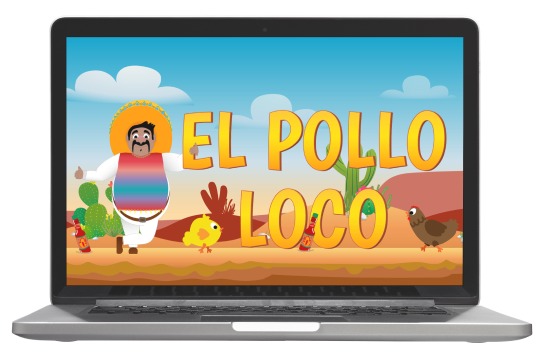
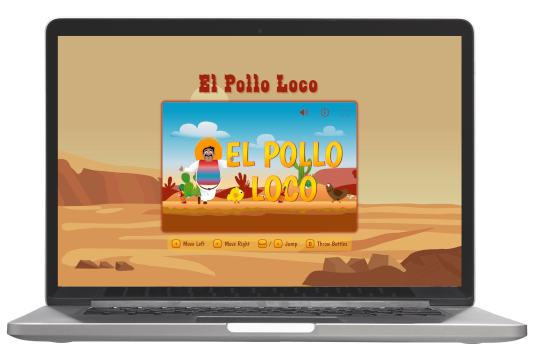
portfolio images

diff --git a/src/app/services/project-list.service.ts b/src/app/services/project-list.service.ts
@@ -12,7 +12,8 @@ export class ProjectListService {
       description: 'Task manager inspired by the Kanban System. Create and organize tasks using drag and drop functions, assign users and categories.',
       url: 'https://manu-kapolke.developerakademie.net/join',
       githubUrl: 'https://github.com/ManuKapolke/join',
-      img: 'assets/img/projects/laptop_join.png'
+      img: 'assets/img/projects/laptop_join.png',
+      imgPhone: 'assets/img/projects/smartphone_join.png'
     },
     {
       name: 'El Pollo Loco',
@@ -20,23 +21,26 @@ export class ProjectListService {
       description: 'Jump, run and throw game based on object-oriented approach. Help Pepe to find coins and salsa to fight against a psycho chicken.',
       url: 'https://manu-kapolke.developerakademie.net/el_pollo_loco',
       githubUrl: 'https://github.com/ManuKapolke/el_pollo_loco',
-      img: 'assets/img/projects/laptop_el-pollo-loco.png'
+      img: 'assets/img/projects/laptop_el-pollo-loco.png',
+      imgPhone: 'assets/img/projects/smartphone_el-pollo-loco.png'
     },
-    {
-      name: 'Simple CRM',
-      techStack: 'Angular | TypeScript | HTML | CSS | Firebase',
-      description: 'A very Simple Customer Relationship Management system working with CRUD functionality.',
-      url: '#',
-      githubUrl: '#',
-      img: 'assets/img/projects/laptop_simple-crm.png'
-    },
+    // {
+    //   name: 'Simple CRM',
+    //   techStack: 'Angular | TypeScript | HTML | CSS | Firebase',
+    //   description: 'A very Simple Customer Relationship Management system working with CRUD functionality.',
+    //   url: '#',
+    //   githubUrl: '#',
+    //   img: 'assets/img/projects/laptop_simple-crm_figma.png',
+    //   imgPhone: 'assets/img/projects/smartphone_join.png'
+    // },
     {
       name: 'Pokédex',
       techStack: 'JavaScript | HTML | CSS | API',
       description: 'Based on the PokéAPI, a simple library that provides and catalogues Pokémon information.',
       url: 'https://manu-kapolke.developerakademie.net/pokedex',
       githubUrl: 'https://github.com/ManuKapolke/pokedex',
-      img: 'assets/img/projects/laptop_pokedex.png'
+      img: 'assets/img/projects/laptop_pokedex.png',
+      imgPhone: 'assets/img/projects/smartphone_pokedex.png'
     }
   ];
 

diff --git a/src/app/project/project.component.html b/src/app/project/project.component.html
@@ -1,6 +1,6 @@
 <div class="project-container">
     <a class="img-container" *ngIf="!reversed" href="{{ project.url }}">
-        <img src="{{ project.img }}" alt="screen showing {{ project.name }} project" data-aos="flip-up"
+        <img src="{{ project.img }}" alt="laptop showing {{ project.name }} project" data-aos="flip-up"
             data-aos-duration="1500">
     </a>
 
@@ -21,7 +21,15 @@
     </div>
 
     <a class="img-container" *ngIf="reversed" href="{{ project.url }}">
-        <img src="{{ project.img }}" alt="screen showing {{ project.name }} project" data-aos="flip-up"
+        <img src="{{ project.img }}" alt="laptop showing {{ project.name }} project" data-aos="flip-up"
             data-aos-duration="1500">
+    </a>
+
+
+    <a class="imgPhone-container"
+        [ngStyle]="{'left': reversed ? 'unset' : '0', 'right': reversed ? '0' : 'unset', 'justify-content': reversed ? 'flex-end' : 'flex-start'}"
+        href="{{ project.url }}">
+        <img src="{{ project.imgPhone }}" alt="smartphone showing {{ project.name }} project" data-aos="fade"
+            data-aos-delay="1000" data-aos-duration="2000" data-aos-offset="-50">
     </a>
 </div>

diff --git a/src/app/project/project.component.scss b/src/app/project/project.component.scss
@@ -4,6 +4,7 @@
     justify-content: center;
     gap: 10%;
     margin: 35px 0;
+    position: relative;
 
     .img-container {
         width: 40%;
@@ -13,6 +14,25 @@
 
         img {
             width: 100%;
+        }
+
+        &:hover {
+            scale: 0.98;
+        }
+    }
+
+    .imgPhone-container {
+        position: absolute;
+        bottom: 0;
+        width: 200px;
+        height: 200px;
+        display: flex;
+        align-items: flex-end;
+        justify-content: flex-start;
+
+        img {
+            max-width: 100%;
+            max-height: 100%;
         }
 
         &:hover {

diff --git a/src/app/portfolio/portfolio.component.html b/src/app/portfolio/portfolio.component.html
@@ -10,7 +10,8 @@
     <app-project *ngFor="let p of projectListService.projects; let i = index" [project]="p"
         [reversed]="i % 2 == 1"></app-project>
 
-    <img class="bg-shape-A" src="assets/img/bg-shapes/v{{ layoutService.version }}_shadow_portfolio-contact.png">
+    <img *ngIf="projectListService.projects.length > 3" class="bg-shape-A"
+        src="assets/img/bg-shapes/v{{ layoutService.version }}_shadow_portfolio-contact.png">
     <div class="bg-shape-B">
         <img src="assets/img/bg-shapes/v{{ layoutService.version }}_shadow_portfolio.png">
     </div>

diff --git a/src/app/contact/contact.component.scss b/src/app/contact/contact.component.scss
@@ -2,12 +2,14 @@
     flex-direction: column;
     gap: 35px;
     padding-bottom: calc(2 * var(--paddingLR));
+    z-index: 3;
 
     .h-line-contact {
         position: absolute;
         top: 168px;
         left: 0;
         width: calc(var(--paddingLR) - var(--gapLineText));
+        z-index: 3;
     }
 
     .text-and-form {

diff --git a/src/app/app.component.ts b/src/app/app.component.ts
@@ -13,9 +13,9 @@ export class AppComponent {
 
   ngOnInit(): void {
     AOS.init(
-      // {
-      //   once: true
-      // }
+      {
+        once: true
+      }
     );
   }
 

diff --git a/src/app/portfolio/portfolio.component.scss b/src/app/portfolio/portfolio.component.scss
@@ -27,7 +27,7 @@
     .bg-shape-A {
         position: absolute;
         top: 950px;
-        left: -100px;
+        left: -200px;
         z-index: 2;
     }
 

diff --git a/src/app/interfaces/project.interface.ts b/src/app/interfaces/project.interface.ts
@@ -5,4 +5,5 @@ export interface Project {
     url: string;
     githubUrl: string;
     img: string;
+    imgPhone: string;
 }
